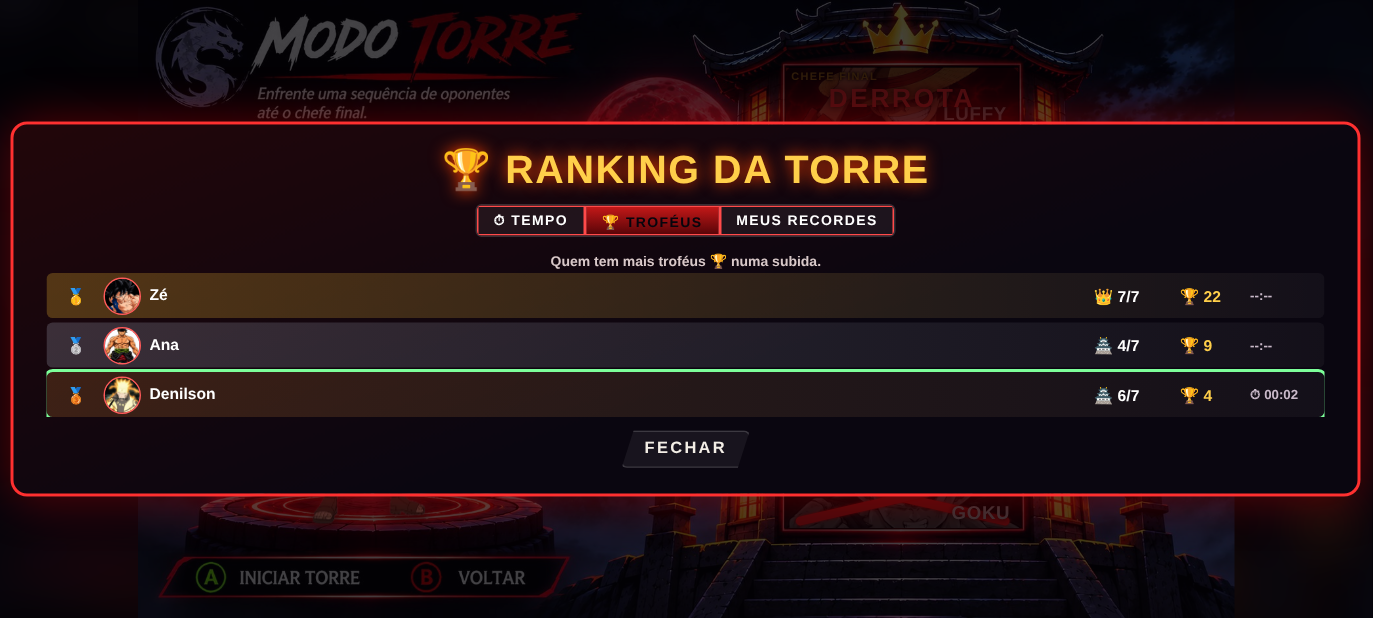
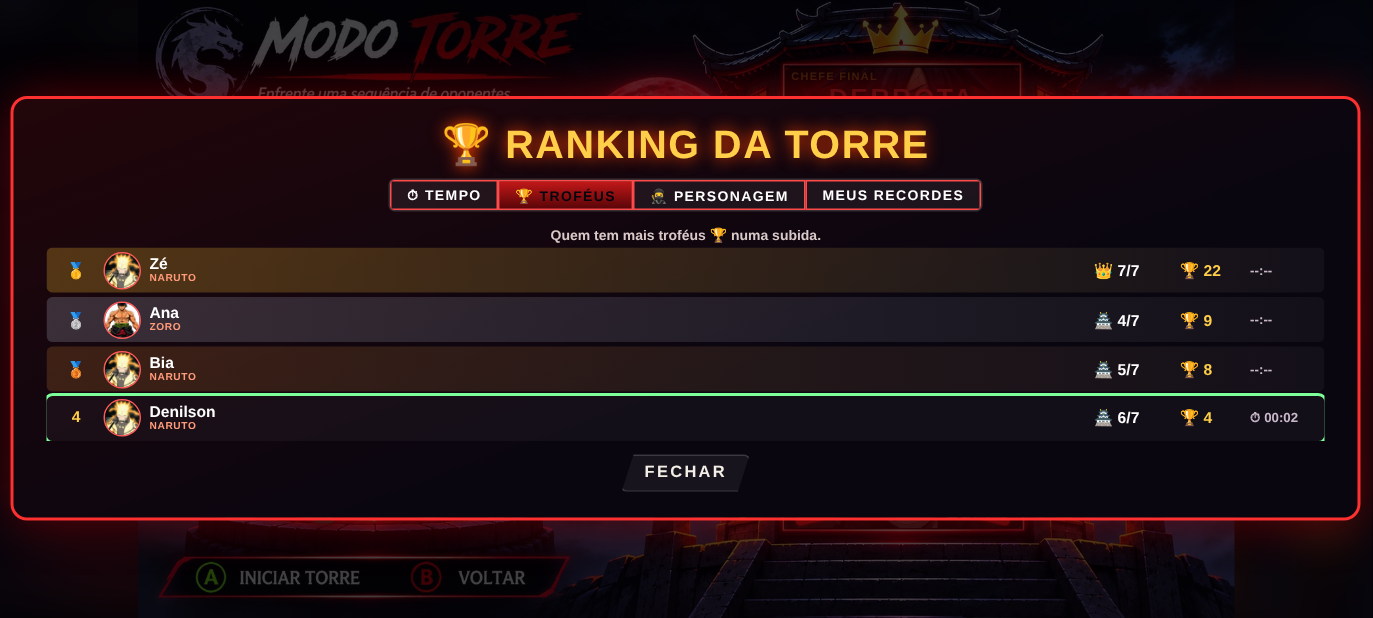
v176: ranking por personagem (torre completa = 20 pts) e personagem usado no fim da subida
Claude-Session: https://claude.ai/code/session_01KtrZTmDkLnY2EE7eHvUsq1

Changed region(s): [[0.0, 0.123, 1.0, 0.7071], [0.0, 0.7071, 1.0, 0.8608]]

diff --git a/www/index.html b/www/index.html
@@ -450,6 +450,16 @@ h2{margin:0;font-family:var(--f-display);font-weight:400;font-size:clamp(26px,8v
 @keyframes twPop{0%{opacity:0;transform:scale(.3)}70%{transform:scale(1.15)}100%{opacity:1;transform:none}}
 @keyframes twCard{0%{opacity:0;transform:translateY(1.5em) rotateY(80deg)}100%{opacity:1;transform:none}}
 @keyframes twGold{50%{box-shadow:0 0 2.4em #ffc531,0 0 .6em #fff;filter:brightness(1.15)}}
+.twRk .rw .nm small{display:block;font-size:.65em;color:#ff9a7a;letter-spacing:.06em}
+.twRk.c .rw .tr{color:#ffcf4a;font-weight:900}
+.twCP{display:flex;flex-wrap:wrap;justify-content:center;gap:.35em;margin:.2em 0 .3em}
+.twCP button{width:2.8em;height:2.8em;padding:0;border-radius:50%;border:2px solid #4a1a20;background:#100;cursor:pointer;overflow:hidden;opacity:.6}
+.twCP button img{width:100%;height:100%;object-fit:cover;display:block}
+.twCP button.on{border-color:#ffcf4a;opacity:1;box-shadow:0 0 .8em #ffc531;transform:scale(1.12)}
+.twCN{font:900 1.1em var(--f-display);color:#ffcf4a;letter-spacing:.08em;margin-bottom:.3em}
+.twSt b.twCh{display:flex;align-items:center;gap:.3em;font-size:1.4em}
+.twSt b.twCh img{width:1.4em;height:1.4em;border-radius:50%;object-fit:cover;border:1px solid #ff5a5a}
+.twRk.c .rw{grid-template-columns:2.6em 2.4em 1fr 4.5em 7em 0}.twRk.c .rw .tr{white-space:nowrap}
 </style>
 
 <svg width="0" height="0" style="position:absolute" aria-hidden="true"><filter id="sharp" color-interpolation-filters="sRGB"><feConvolveMatrix order="3" kernelMatrix="0 -0.3 0 -0.3 2.2 -0.3 0 -0.3 0" preserveAlpha="true"/></filter></svg>
@@ -5361,7 +5371,7 @@ function twEndModal(){const L=TW.last;if(!L)return twModal(null);const {won,quit
   const tl=Object.keys(cnt).map(k=>`<span class="twT"><i>${TWTR[k].i}</i><b>${TWTR[k].n}</b><span>×${cnt[k]}</span></span>`).join('')||'<p class="twH">Nenhum troféu nesta subida.</p>';
   twModal(`<div class="twM ${won?'gold':''}"><h3>${won?'TORRE CONQUISTADA!':quit?'VOCÊ DESISTIU':TW.fl===TWN-1?'O CHEFE VENCEU!':'VOCÊ CAIU NO ANDAR '+(TW.fl+1)}</h3>
     ${won&&ks?`<div class="twTs">${twTrofHTML(ks)}</div>`:''}
-    <div class="twSt"><div><small>ANDARES</small><b>${andar}/${TWN}</b></div><div><small>TEMPO</small><b>${twFmt(rec.tempo)}</b></div><div><small>TROFÉUS</small><b>🏆 ${rec.trof}</b></div></div>
+    <div class="twSt"><div><small>PERSONAGEM</small><b class="twCh"><img src="${IMG[rec.char]?IMG[rec.char].src:''}" alt="">${CH[rec.char]?CH[rec.char].name:''}</b></div><div><small>ANDARES</small><b>${andar}/${TWN}</b></div><div><small>TEMPO</small><b>${twFmt(rec.tempo)}</b></div><div><small>TROFÉUS</small><b>🏆 ${rec.trof}</b></div></div>
     ${best?'<div class="twNew">⭐ NOVO RECORDE! ⭐</div>':''}
     <div class="twTs sm">${tl}</div>
     <div class="twSend">${andar>0?`<input id="twName" maxlength="16" placeholder="Seu nome no ranking" value="${twEsc(name)}"><button class="btn main" id="twSendB">ENVIAR</button><span id="twSendS"></span>`:'<span class="twH">Vença pelo menos 1 andar para entrar no ranking.</span>'}</div>
@@ -5370,7 +5380,7 @@ function twEndModal(){const L=TW.last;if(!L)return twModal(null);const {won,quit
   if(andar>0){$('twSendB').onclick=()=>twSubmit(rec);if(TW.sent){$('twSendS').textContent=TW.sendOk?'✓ Enviado para o ranking!':'Enviando...';$('twSendS').className='ok';$('twSendB').disabled=true}}}
 async function twSubmit(rec){if(TW.sent)return;const I=$('twName'),S=$('twSendS')||{};const nome=(I?I.value:twLS.g('tw_nome','')).replace(/[<>]/g,'').trim().slice(0,16);
   if(!nome){S.textContent='Digite seu nome';S.className='err';I&&I.focus();return}twLS.s('tw_nome',nome);TW.sent=true;TW.sendOk=false;S.textContent='Enviando...';S.className='';if($('twSendB'))$('twSendB').disabled=true;
-  try{await twSend(rec,nome);twFetch.c=null;TW.sendOk=true;const S2=$('twSendS');if(S2){S2.textContent='✓ Enviado para o ranking!';S2.className='ok'}}
+  try{await twSend(rec,nome);twFetch.c=null;twFetchC.c=null;TW.sendOk=true;const S2=$('twSendS');if(S2){S2.textContent='✓ Enviado para o ranking!';S2.className='ok'}}
   catch(e){TW.sent=false;const S2=$('twSendS'),B=$('twSendB');if(B)B.disabled=false;if(S2){S2.textContent='Sem internet — tente de novo';S2.className='err'}}}
 function twFetchT(url,o,ms){const c=new AbortController(),t=setTimeout(()=>c.abort(),ms||9000);return fetch(url,Object.assign({signal:c.signal},o)).finally(()=>clearTimeout(t))}
 async function twSend(rec,nome){const I=v=>({integerValue:String(Math.max(0,Math.round(v)))});
@@ -5388,14 +5398,26 @@ async function twFetch(){if(twFetch.c&&Date.now()-twFetch.t<30000)return twFetch
 const twCmpT=(a,b)=>b.andar-a.andar||a.tempo-b.tempo,twCmpF=(a,b)=>b.trof-a.trof||b.andar-a.andar||a.tempo-b.tempo;
 function twBest(L,cmp,mine){const S=L.slice().sort(cmp);if(mine)return S.slice(0,30);const o=[],seen=new Set();for(const e of S){const k=e.nome.toLowerCase();if(seen.has(k))continue;seen.add(k);o.push(e)}return o.slice(0,50)}
 function twRows(L,me,tab){if(!L.length)return `<p class="twH">${tab==='t'?'Ninguém no ranking de tempo ainda (temporada nova). Seja o primeiro!':'Ninguém no ranking ainda. Seja o primeiro!'}</p>`;
-  return '<div class="twRk '+tab+'">'+L.map((e,i)=>{const im=CH[e.char]&&IMG[e.char]?IMG[e.char].src:'';return `<div class="rw${me&&e.nome.toLowerCase()===me.toLowerCase()?' me':''}${i<3?' t'+(i+1):''}"><span class="ps">${i<3?['🥇','🥈','🥉'][i]:i+1}</span>${im?`<img src="${im}" alt="">`:'<i></i>'}<span class="nm">${twEsc(e.nome)}</span><span class="an">${e.andar>=TWN?'👑 7/7':'🏯 '+e.andar+'/7'}</span><span class="tr">🏆 ${e.trof}</span><span class="tm">${e.old?'--:--':'⏱ '+twFmt(e.tempo)}</span></div>`}).join('')+'</div>'}
-function twRank(tab){tab=tab||'t';const me=twLS.g('tw_nome','');
+  return '<div class="twRk '+tab+'">'+L.map((e,i)=>{const im=CH[e.char]&&IMG[e.char]?IMG[e.char].src:'';return `<div class="rw${me&&e.nome.toLowerCase()===me.toLowerCase()?' me':''}${i<3?' t'+(i+1):''}"><span class="ps">${i<3?['🥇','🥈','🥉'][i]:i+1}</span>${im?`<img src="${im}" alt="">`:'<i></i>'}<span class="nm">${twEsc(e.nome)}<small>${CH[e.char]?CH[e.char].name:''}</small></span><span class="an">${e.andar>=TWN?'👑 7/7':'🏯 '+e.andar+'/7'}</span><span class="tr">🏆 ${e.trof}</span><span class="tm">${e.old?'--:--':'⏱ '+twFmt(e.tempo)}</span></div>`}).join('')+'</div>'}
+/* rank por PERSONAGEM: torre completa = 20 pontos; subida que não terminou = 1 ponto por andar vencido (soma de todas as subidas) */
+const TWPC=20;
+async function twFetchC(id){const k='c_'+id;twFetchC.c=twFetchC.c||{};const C=twFetchC.c[k];if(C&&Date.now()-C.t<30000)return C.v;
+  const body={structuredQuery:{from:[{collectionId:'torre'}],where:{fieldFilter:{field:{fieldPath:'char'},op:'EQUAL',value:{stringValue:id}}},limit:500}};
+  const r=await twFetchT(TWURL+':runQuery?key='+TWFB.apiKey,{method:'POST',headers:{'Content-Type':'application/json'},body:JSON.stringify(body)});if(!r.ok)throw new Error('http '+r.status);
+  const j=await r.json(),M={};
+  for(const x of (Array.isArray(j)?j:[])){const F=x&&x.document&&x.document.fields;if(!F)continue;const g=k=>F[k]?(F[k].stringValue!=null?F[k].stringValue:F[k].integerValue):undefined;
+    const nome=String(g('nome')||'?').slice(0,16),a=+g('andar')||0,key=nome.toLowerCase();const e=M[key]||(M[key]={nome,char:id,pts:0,tw:0,runs:0});e.runs++;if(a>=TWN){e.tw++;e.pts+=TWPC}else e.pts+=a}
+  const v=Object.values(M).sort((a,b)=>b.pts-a.pts||b.tw-a.tw).slice(0,50);twFetchC.c[k]={t:Date.now(),v};return v}
+function twRowsC(L,me){if(!L.length)return '<p class="twH">Ninguém subiu a torre com esse personagem ainda. Seja o primeiro!</p>';
+  return '<div class="twRk c">'+L.map((e,i)=>`<div class="rw${me&&e.nome.toLowerCase()===me.toLowerCase()?' me':''}${i<3?' t'+(i+1):''}"><span class="ps">${i<3?['🥇','🥈','🥉'][i]:i+1}</span><img src="${IMG[e.char].src}" alt=""><span class="nm">${twEsc(e.nome)}<small>${e.runs} subida${e.runs>1?'s':''}</small></span><span class="an">👑 ${e.tw}</span><span class="tr">⭐ ${e.pts} pts</span><span class="tm"></span></div>`).join('')+'</div>'}
+function twRank(tab,cid){tab=tab||'t';const me=twLS.g('tw_nome','');if(tab==='c'){cid=cid||twRank.cid||TW.pick||G.pick;if(!CH[cid])cid=ALLC[0];twRank.cid=cid}
   const H=twLS.g('tw_hist',[]).map(r=>Object.assign({nome:me||'Você'},r,{old:(r.d||0)<TWCUT}));
-  const sub={t:'Quem sobe mais andares no menor tempo. Recordes de antes da v174 não contam no tempo.',f:'Quem tem mais troféus 🏆 numa subida.',m:'Suas melhores subidas neste aparelho.'}[tab];
-  twModal(`<div class="twM rk"><h3>🏆 RANKING DA TORRE</h3><div class="seg twTab"><button data-t="t" aria-pressed="${tab==='t'}">⏱ TEMPO</button><button data-t="f" aria-pressed="${tab==='f'}">🏆 TROFÉUS</button><button data-t="m" aria-pressed="${tab==='m'}">MEUS RECORDES</button></div>
-    <p class="twH">${sub}</p><div id="twRkL">${tab==='m'?twRows(twBest(H,twCmpF,1),'','m'):'<p class="twH">Carregando...</p>'}</div><div class="row"><button class="btn" id="twRkX">FECHAR</button></div></div>`);
-  document.querySelectorAll('#twModal .twTab button').forEach(b=>b.onclick=()=>twRank(b.dataset.t));
+  const sub={t:'Quem sobe mais andares no menor tempo. Recordes de antes da v174 não contam no tempo.',f:'Quem tem mais troféus 🏆 numa subida.',c:'Top jogadores com o personagem: torre completa = '+TWPC+' pontos, andar vencido (sem completar) = 1 ponto. Soma todas as subidas.',m:'Suas melhores subidas neste aparelho.'}[tab];
+  twModal(`<div class="twM rk"><h3>🏆 RANKING DA TORRE</h3><div class="seg twTab"><button data-t="t" aria-pressed="${tab==='t'}">⏱ TEMPO</button><button data-t="f" aria-pressed="${tab==='f'}">🏆 TROFÉUS</button><button data-t="c" aria-pressed="${tab==='c'}">🥷 PERSONAGEM</button><button data-t="m" aria-pressed="${tab==='m'}">MEUS RECORDES</button></div>
+    <p class="twH">${sub}</p>${tab==='c'?`<div class="twCP">${ALLC.map(id=>`<button data-c="${id}" class="${id===cid?'on':''}" title="${CH[id].name}"><img src="${IMG[id].src}" alt=""></button>`).join('')}</div><div class="twCN">${CH[cid].name}</div>`:''}<div id="twRkL">${tab==='m'?twRows(twBest(H,twCmpF,1),'','m'):'<p class="twH">Carregando...</p>'}</div><div class="row"><button class="btn" id="twRkX">FECHAR</button></div></div>`);
+  document.querySelectorAll('#twModal .twTab button').forEach(b=>b.onclick=()=>twRank(b.dataset.t));document.querySelectorAll('#twModal .twCP button').forEach(b=>b.onclick=()=>twRank('c',b.dataset.c));
   $('twRkX').onclick=()=>{if(TW.last&&!TW.on){twFinishBack()}else twModal(null)};
+  if(tab==='c'){twFetchC(cid).then(L=>{if($('twRkL'))$('twRkL').innerHTML=twRowsC(L,me)}).catch(()=>{if($('twRkL'))$('twRkL').innerHTML='<p class="twH err">Sem internet agora.</p>'});return}
   if(tab!=='m')twFetch().then(A=>{const L=tab==='t'?twBest(A.filter(e=>!e.old),twCmpT):twBest(A,twCmpF);if($('twRkL'))$('twRkL').innerHTML=twRows(L,me,tab)}).catch(()=>{if($('twRkL'))$('twRkL').innerHTML='<p class="twH err">Sem internet agora. Veja seus recordes na outra aba.</p>'})}
 function twFinishBack(){twEndModal()}
 function twTrofList(){const tc=twLS.g('tw_tc',{}),run={};for(const t of TW.tr)run[t.k]=(run[t.k]||0)+1;

diff --git a/ferramentas/web/torre/torre.js b/ferramentas/web/torre/torre.js
@@ -121,7 +121,7 @@ function twEndModal(){const L=TW.last;if(!L)return twModal(null);const {won,quit
   const tl=Object.keys(cnt).map(k=>`<span class="twT"><i>${TWTR[k].i}</i><b>${TWTR[k].n}</b><span>×${cnt[k]}</span></span>`).join('')||'<p class="twH">Nenhum troféu nesta subida.</p>';
   twModal(`<div class="twM ${won?'gold':''}"><h3>${won?'TORRE CONQUISTADA!':quit?'VOCÊ DESISTIU':TW.fl===TWN-1?'O CHEFE VENCEU!':'VOCÊ CAIU NO ANDAR '+(TW.fl+1)}</h3>
     ${won&&ks?`<div class="twTs">${twTrofHTML(ks)}</div>`:''}
-    <div class="twSt"><div><small>ANDARES</small><b>${andar}/${TWN}</b></div><div><small>TEMPO</small><b>${twFmt(rec.tempo)}</b></div><div><small>TROFÉUS</small><b>🏆 ${rec.trof}</b></div></div>
+    <div class="twSt"><div><small>PERSONAGEM</small><b class="twCh"><img src="${IMG[rec.char]?IMG[rec.char].src:''}" alt="">${CH[rec.char]?CH[rec.char].name:''}</b></div><div><small>ANDARES</small><b>${andar}/${TWN}</b></div><div><small>TEMPO</small><b>${twFmt(rec.tempo)}</b></div><div><small>TROFÉUS</small><b>🏆 ${rec.trof}</b></div></div>
     ${best?'<div class="twNew">⭐ NOVO RECORDE! ⭐</div>':''}
     <div class="twTs sm">${tl}</div>
     <div class="twSend">${andar>0?`<input id="twName" maxlength="16" placeholder="Seu nome no ranking" value="${twEsc(name)}"><button class="btn main" id="twSendB">ENVIAR</button><span id="twSendS"></span>`:'<span class="twH">Vença pelo menos 1 andar para entrar no ranking.</span>'}</div>
@@ -130,7 +130,7 @@ function twEndModal(){const L=TW.last;if(!L)return twModal(null);const {won,quit
   if(andar>0){$('twSendB').onclick=()=>twSubmit(rec);if(TW.sent){$('twSendS').textContent=TW.sendOk?'✓ Enviado para o ranking!':'Enviando...';$('twSendS').className='ok';$('twSendB').disabled=true}}}
 async function twSubmit(rec){if(TW.sent)return;const I=$('twName'),S=$('twSendS')||{};const nome=(I?I.value:twLS.g('tw_nome','')).replace(/[<>]/g,'').trim().slice(0,16);
   if(!nome){S.textContent='Digite seu nome';S.className='err';I&&I.focus();return}twLS.s('tw_nome',nome);TW.sent=true;TW.sendOk=false;S.textContent='Enviando...';S.className='';if($('twSendB'))$('twSendB').disabled=true;
-  try{await twSend(rec,nome);twFetch.c=null;TW.sendOk=true;const S2=$('twSendS');if(S2){S2.textContent='✓ Enviado para o ranking!';S2.className='ok'}}
+  try{await twSend(rec,nome);twFetch.c=null;twFetchC.c=null;TW.sendOk=true;const S2=$('twSendS');if(S2){S2.textContent='✓ Enviado para o ranking!';S2.className='ok'}}
   catch(e){TW.sent=false;const S2=$('twSendS'),B=$('twSendB');if(B)B.disabled=false;if(S2){S2.textContent='Sem internet — tente de novo';S2.className='err'}}}
 function twFetchT(url,o,ms){const c=new AbortController(),t=setTimeout(()=>c.abort(),ms||9000);return fetch(url,Object.assign({signal:c.signal},o)).finally(()=>clearTimeout(t))}
 async function twSend(rec,nome){const I=v=>({integerValue:String(Math.max(0,Math.round(v)))});
@@ -148,14 +148,26 @@ async function twFetch(){if(twFetch.c&&Date.now()-twFetch.t<30000)return twFetch
 const twCmpT=(a,b)=>b.andar-a.andar||a.tempo-b.tempo,twCmpF=(a,b)=>b.trof-a.trof||b.andar-a.andar||a.tempo-b.tempo;
 function twBest(L,cmp,mine){const S=L.slice().sort(cmp);if(mine)return S.slice(0,30);const o=[],seen=new Set();for(const e of S){const k=e.nome.toLowerCase();if(seen.has(k))continue;seen.add(k);o.push(e)}return o.slice(0,50)}
 function twRows(L,me,tab){if(!L.length)return `<p class="twH">${tab==='t'?'Ninguém no ranking de tempo ainda (temporada nova). Seja o primeiro!':'Ninguém no ranking ainda. Seja o primeiro!'}</p>`;
-  return '<div class="twRk '+tab+'">'+L.map((e,i)=>{const im=CH[e.char]&&IMG[e.char]?IMG[e.char].src:'';return `<div class="rw${me&&e.nome.toLowerCase()===me.toLowerCase()?' me':''}${i<3?' t'+(i+1):''}"><span class="ps">${i<3?['🥇','🥈','🥉'][i]:i+1}</span>${im?`<img src="${im}" alt="">`:'<i></i>'}<span class="nm">${twEsc(e.nome)}</span><span class="an">${e.andar>=TWN?'👑 7/7':'🏯 '+e.andar+'/7'}</span><span class="tr">🏆 ${e.trof}</span><span class="tm">${e.old?'--:--':'⏱ '+twFmt(e.tempo)}</span></div>`}).join('')+'</div>'}
-function twRank(tab){tab=tab||'t';const me=twLS.g('tw_nome','');
+  return '<div class="twRk '+tab+'">'+L.map((e,i)=>{const im=CH[e.char]&&IMG[e.char]?IMG[e.char].src:'';return `<div class="rw${me&&e.nome.toLowerCase()===me.toLowerCase()?' me':''}${i<3?' t'+(i+1):''}"><span class="ps">${i<3?['🥇','🥈','🥉'][i]:i+1}</span>${im?`<img src="${im}" alt="">`:'<i></i>'}<span class="nm">${twEsc(e.nome)}<small>${CH[e.char]?CH[e.char].name:''}</small></span><span class="an">${e.andar>=TWN?'👑 7/7':'🏯 '+e.andar+'/7'}</span><span class="tr">🏆 ${e.trof}</span><span class="tm">${e.old?'--:--':'⏱ '+twFmt(e.tempo)}</span></div>`}).join('')+'</div>'}
+/* rank por PERSONAGEM: torre completa = 20 pontos; subida que não terminou = 1 ponto por andar vencido (soma de todas as subidas) */
+const TWPC=20;
+async function twFetchC(id){const k='c_'+id;twFetchC.c=twFetchC.c||{};const C=twFetchC.c[k];if(C&&Date.now()-C.t<30000)return C.v;
+  const body={structuredQuery:{from:[{collectionId:'torre'}],where:{fieldFilter:{field:{fieldPath:'char'},op:'EQUAL',value:{stringValue:id}}},limit:500}};
+  const r=await twFetchT(TWURL+':runQuery?key='+TWFB.apiKey,{method:'POST',headers:{'Content-Type':'application/json'},body:JSON.stringify(body)});if(!r.ok)throw new Error('http '+r.status);
+  const j=await r.json(),M={};
+  for(const x of (Array.isArray(j)?j:[])){const F=x&&x.document&&x.document.fields;if(!F)continue;const g=k=>F[k]?(F[k].stringValue!=null?F[k].stringValue:F[k].integerValue):undefined;
+    const nome=String(g('nome')||'?').slice(0,16),a=+g('andar')||0,key=nome.toLowerCase();const e=M[key]||(M[key]={nome,char:id,pts:0,tw:0,runs:0});e.runs++;if(a>=TWN){e.tw++;e.pts+=TWPC}else e.pts+=a}
+  const v=Object.values(M).sort((a,b)=>b.pts-a.pts||b.tw-a.tw).slice(0,50);twFetchC.c[k]={t:Date.now(),v};return v}
+function twRowsC(L,me){if(!L.length)return '<p class="twH">Ninguém subiu a torre com esse personagem ainda. Seja o primeiro!</p>';
+  return '<div class="twRk c">'+L.map((e,i)=>`<div class="rw${me&&e.nome.toLowerCase()===me.toLowerCase()?' me':''}${i<3?' t'+(i+1):''}"><span class="ps">${i<3?['🥇','🥈','🥉'][i]:i+1}</span><img src="${IMG[e.char].src}" alt=""><span class="nm">${twEsc(e.nome)}<small>${e.runs} subida${e.runs>1?'s':''}</small></span><span class="an">👑 ${e.tw}</span><span class="tr">⭐ ${e.pts} pts</span><span class="tm"></span></div>`).join('')+'</div>'}
+function twRank(tab,cid){tab=tab||'t';const me=twLS.g('tw_nome','');if(tab==='c'){cid=cid||twRank.cid||TW.pick||G.pick;if(!CH[cid])cid=ALLC[0];twRank.cid=cid}
   const H=twLS.g('tw_hist',[]).map(r=>Object.assign({nome:me||'Você'},r,{old:(r.d||0)<TWCUT}));
-  const sub={t:'Quem sobe mais andares no menor tempo. Recordes de antes da v174 não contam no tempo.',f:'Quem tem mais troféus 🏆 numa subida.',m:'Suas melhores subidas neste aparelho.'}[tab];
-  twModal(`<div class="twM rk"><h3>🏆 RANKING DA TORRE</h3><div class="seg twTab"><button data-t="t" aria-pressed="${tab==='t'}">⏱ TEMPO</button><button data-t="f" aria-pressed="${tab==='f'}">🏆 TROFÉUS</button><button data-t="m" aria-pressed="${tab==='m'}">MEUS RECORDES</button></div>
-    <p class="twH">${sub}</p><div id="twRkL">${tab==='m'?twRows(twBest(H,twCmpF,1),'','m'):'<p class="twH">Carregando...</p>'}</div><div class="row"><button class="btn" id="twRkX">FECHAR</button></div></div>`);
-  document.querySelectorAll('#twModal .twTab button').forEach(b=>b.onclick=()=>twRank(b.dataset.t));
+  const sub={t:'Quem sobe mais andares no menor tempo. Recordes de antes da v174 não contam no tempo.',f:'Quem tem mais troféus 🏆 numa subida.',c:'Top jogadores com o personagem: torre completa = '+TWPC+' pontos, andar vencido (sem completar) = 1 ponto. Soma todas as subidas.',m:'Suas melhores subidas neste aparelho.'}[tab];
+  twModal(`<div class="twM rk"><h3>🏆 RANKING DA TORRE</h3><div class="seg twTab"><button data-t="t" aria-pressed="${tab==='t'}">⏱ TEMPO</button><button data-t="f" aria-pressed="${tab==='f'}">🏆 TROFÉUS</button><button data-t="c" aria-pressed="${tab==='c'}">🥷 PERSONAGEM</button><button data-t="m" aria-pressed="${tab==='m'}">MEUS RECORDES</button></div>
+    <p class="twH">${sub}</p>${tab==='c'?`<div class="twCP">${ALLC.map(id=>`<button data-c="${id}" class="${id===cid?'on':''}" title="${CH[id].name}"><img src="${IMG[id].src}" alt=""></button>`).join('')}</div><div class="twCN">${CH[cid].name}</div>`:''}<div id="twRkL">${tab==='m'?twRows(twBest(H,twCmpF,1),'','m'):'<p class="twH">Carregando...</p>'}</div><div class="row"><button class="btn" id="twRkX">FECHAR</button></div></div>`);
+  document.querySelectorAll('#twModal .twTab button').forEach(b=>b.onclick=()=>twRank(b.dataset.t));document.querySelectorAll('#twModal .twCP button').forEach(b=>b.onclick=()=>twRank('c',b.dataset.c));
   $('twRkX').onclick=()=>{if(TW.last&&!TW.on){twFinishBack()}else twModal(null)};
+  if(tab==='c'){twFetchC(cid).then(L=>{if($('twRkL'))$('twRkL').innerHTML=twRowsC(L,me)}).catch(()=>{if($('twRkL'))$('twRkL').innerHTML='<p class="twH err">Sem internet agora.</p>'});return}
   if(tab!=='m')twFetch().then(A=>{const L=tab==='t'?twBest(A.filter(e=>!e.old),twCmpT):twBest(A,twCmpF);if($('twRkL'))$('twRkL').innerHTML=twRows(L,me,tab)}).catch(()=>{if($('twRkL'))$('twRkL').innerHTML='<p class="twH err">Sem internet agora. Veja seus recordes na outra aba.</p>'})}
 function twFinishBack(){twEndModal()}
 function twTrofList(){const tc=twLS.g('tw_tc',{}),run={};for(const t of TW.tr)run[t.k]=(run[t.k]||0)+1;

diff --git a/ferramentas/testes/ttorre.js b/ferramentas/testes/ttorre.js
@@ -3,9 +3,9 @@ const {chromium}=require('playwright');const fs=require('fs');const SH='/home/cl
 const W=+process.argv[2]||915,H=+process.argv[3]||412;
 (async()=>{const b=await chromium.launch();const p=await b.newPage({viewport:{width:W,height:H},deviceScaleFactor:1.5});p.setDefaultTimeout(120000);
 const errs=[];p.on('pageerror',e=>{errs.push((e.stack||e.message).slice(0,300));console.log('PAGEERR',(e.stack||e.message).slice(0,400))});await p.route(/fonts\.g/,r=>r.abort());
-const DB=[{nome:'Zé',andar:7,tempo:301,trof:22,char:'goku'},{nome:'Ana',andar:4,tempo:200,trof:9,char:'zoro'}];const SENT=[];
+const DB=[{nome:'Zé',andar:7,tempo:301,trof:22,char:'naruto'},{nome:'Zé',andar:7,tempo:280,trof:18,char:'naruto'},{nome:'Bia',andar:5,tempo:200,trof:8,char:'naruto'},{nome:'Zé',andar:7,tempo:301,trof:22,char:'goku'},{nome:'Ana',andar:4,tempo:200,trof:9,char:'zoro'}];const SENT=[];
 await p.route(/firestore\.googleapis\.com/,async r=>{const u=r.request().url(),body=r.request().postData();
-  if(/:runQuery/.test(u)){const pts=e=>e.andar*1e7+e.trof*1e4+9999-e.tempo;const L=DB.slice().sort((a,b)=>pts(b)-pts(a)).map(e=>({document:{createTime:e.ct||'2026-11-01T00:00:00Z',fields:{v:{integerValue:''+(e.v||171)},nome:{stringValue:e.nome},andar:{integerValue:''+e.andar},tempo:{integerValue:''+e.tempo},trof:{integerValue:''+e.trof},char:{stringValue:e.char},pontos:{integerValue:''+pts(e)}}}}));
+  if(/:runQuery/.test(u)){const pts=e=>e.andar*1e7+e.trof*1e4+9999-e.tempo;const Q=JSON.parse(body).structuredQuery,wc=Q.where&&Q.where.fieldFilter.value.stringValue;const L=DB.filter(e=>!wc||e.char===wc).slice().sort((a,b)=>pts(b)-pts(a)).map(e=>({document:{createTime:e.ct||'2026-11-01T00:00:00Z',fields:{v:{integerValue:''+(e.v||171)},nome:{stringValue:e.nome},andar:{integerValue:''+e.andar},tempo:{integerValue:''+e.tempo},trof:{integerValue:''+e.trof},char:{stringValue:e.char},pontos:{integerValue:''+pts(e)}}}}));
     return r.fulfill({status:200,contentType:'application/json',headers:{'access-control-allow-origin':'*'},body:JSON.stringify(L)})}
   const F=JSON.parse(body).fields;SENT.push(F);DB.push({nome:F.nome.stringValue,andar:+F.andar.integerValue,tempo:+F.tempo.integerValue,trof:+F.trof.integerValue,char:F.char.stringValue,v:+F.v.integerValue,ct:'2026-11-08T00:00:00Z'});
   return r.fulfill({status:200,contentType:'application/json',headers:{'access-control-allow-origin':'*'},body:'{}'})});
@@ -13,7 +13,7 @@ await p.goto('file:///home/claude/fui-do-templo-a-pk-2/www/index.html');await p.
 const shot=n=>p.screenshot({path:SH+'tw_'+n+'.png'});const wait=ms=>p.waitForTimeout(ms);
 await p.click('#mTorre');await wait(500);await p.click('.tile[data-c="naruto"]');await wait(300);await shot('sel');
 await p.click('#goStage');await wait(800);await shot('tela');
-await p.click('#twGo');await wait(1600);await shot('revela');
+await p.click('#twGo');await wait(400);await p.fill('#twName0','Denilson');await p.click('#twNmOk');await wait(1600);await shot('revela');
 const fight=async(lose)=>{await p.click('#twGo');await p.waitForFunction(()=>__dbg.G.mode==='fight'&&__dbg.G.phase==='fight',null,{timeout:120000});await wait(400);
   const st=await p.evaluate(()=>{const G=__dbg.G,[a,o]=G.p;return {opp:o.def.id,diff:G.diff,hp:a.hp,tdm:a.tdm,tsp:a.tsp,tdf:a.tdf,otdm:o.tdm,otdf:o.tdf,oform:o.form,trans:!!G.trans,pm:a.mhp,om:o.mhp,ohp:o.hp,timer:G.timer,stg:__dbg.stg(),ring:G.ring&&G.ring.title}});console.log('LUTA',JSON.stringify(st));
   await p.evaluate((lose)=>{const G=__dbg.G;if(lose){G.p[0].hp=50}else{G.p[1].hp=50;G.p[0].hp=G.p[0].mhp*.5;G.p[0].combo=11}G.timer=1;G.tf=59},lose);
@@ -26,9 +26,9 @@ await p.evaluate(()=>{__TW.fl=6;__TW.rev=true;document.querySelector('#twGo').cl
 await wait(1500);console.log('CHEFE',JSON.stringify(await p.evaluate(()=>({om:__dbg.G.p[1].mhp,pm:__dbg.G.p[0].mhp,timer:__dbg.G.timer,opp:__dbg.G.p[1].def.id,trans:!!__dbg.G.trans,form:__dbg.G.p[1].form,diff:__dbg.G.diff}))));await shot('chefe');
 await p.waitForFunction(()=>!__dbg.G.trans,null,{timeout:60000});await wait(800);await shot('chefe_hud');console.log('CHEFE2',JSON.stringify(await p.evaluate(()=>({form:__dbg.G.p[1].form}))));
 await p.evaluate(()=>{const G=__dbg.G;G.p[0].hp=50;G.timer=1;G.tf=59});await p.waitForFunction(()=>__dbg.G.mode==='tower',null,{timeout:60000});await wait(1500);await shot('derrota');
-await p.fill('#twName','Denilson');await p.click('#twSendB');await wait(800);await shot('enviado');console.log('ENVIADO',JSON.stringify(SENT));
+await wait(800);await shot('enviado');console.log('ENVIADO',JSON.stringify(SENT));
 await p.click('#twRk');await wait(800);await shot('ranking');
-await p.click('#twModal .twTab button[data-t="f"]');await wait(600);await shot('rk_trof');await p.click('#twModal .twTab button[data-t="m"]');await wait(300);await shot('meus');
+await p.click('#twModal .twTab button[data-t="f"]');await wait(600);await shot('rk_trof');await p.click('#twModal .twTab button[data-t="c"]');await wait(700);await shot('rk_pers');await p.click('#twModal .twTab button[data-t="m"]');await wait(300);await shot('meus');
 await p.click('#twRkX');await wait(300);await shot('fim2');
 await p.click('#twAgain');await wait(1500);await shot('denovo');
 console.log('ERROS',JSON.stringify(errs));await b.close()})();

diff --git a/ferramentas/web/torre/torre.css b/ferramentas/web/torre/torre.css
@@ -128,3 +128,13 @@
 @keyframes twPop{0%{opacity:0;transform:scale(.3)}70%{transform:scale(1.15)}100%{opacity:1;transform:none}}
 @keyframes twCard{0%{opacity:0;transform:translateY(1.5em) rotateY(80deg)}100%{opacity:1;transform:none}}
 @keyframes twGold{50%{box-shadow:0 0 2.4em #ffc531,0 0 .6em #fff;filter:brightness(1.15)}}
+.twRk .rw .nm small{display:block;font-size:.65em;color:#ff9a7a;letter-spacing:.06em}
+.twRk.c .rw .tr{color:#ffcf4a;font-weight:900}
+.twCP{display:flex;flex-wrap:wrap;justify-content:center;gap:.35em;margin:.2em 0 .3em}
+.twCP button{width:2.8em;height:2.8em;padding:0;border-radius:50%;border:2px solid #4a1a20;background:#100;cursor:pointer;overflow:hidden;opacity:.6}
+.twCP button img{width:100%;height:100%;object-fit:cover;display:block}
+.twCP button.on{border-color:#ffcf4a;opacity:1;box-shadow:0 0 .8em #ffc531;transform:scale(1.12)}
+.twCN{font:900 1.1em var(--f-display);color:#ffcf4a;letter-spacing:.08em;margin-bottom:.3em}
+.twSt b.twCh{display:flex;align-items:center;gap:.3em;font-size:1.4em}
+.twSt b.twCh img{width:1.4em;height:1.4em;border-radius:50%;object-fit:cover;border:1px solid #ff5a5a}
+.twRk.c .rw{grid-template-columns:2.6em 2.4em 1fr 4.5em 7em 0}.twRk.c .rw .tr{white-space:nowrap}

diff --git a/GUIA-CLAUDE.md b/GUIA-CLAUDE.md
@@ -381,3 +381,7 @@ O dono mandou uma especificação ("SISTEMA PROFISSIONAL DE COMBATE 2D": animaç
 
 ## v175 — nome obrigatório na 1ª torre
 - Ao tocar INICIAR TORRE sem `tw_nome` salvo, abre `twAskName` ("SEU NOME NA TORRE", mín. 2 letras, máx. 16, sem < >). Só depois de confirmar a subida começa. O nome ainda pode ser trocado no campo do fim da subida.
+
+## v176 — Ranking por PERSONAGEM
+- Fim da subida mostra o personagem usado (foto + nome); nas linhas do ranking o nome do personagem aparece embaixo do nome do jogador.
+- Aba nova 🥷 PERSONAGEM: fileira com todos os personagens (começa no que você usou); busca no Firestore `where char == id` (índice simples automático, até 500 docs) e SOMA por nome: torre completa = 20 pontos (`TWPC`), subida que não terminou = 1 ponto por andar vencido. Mostra 👑 torres completas, ⭐ pontos e nº de subidas. Cache 30 s por personagem.
